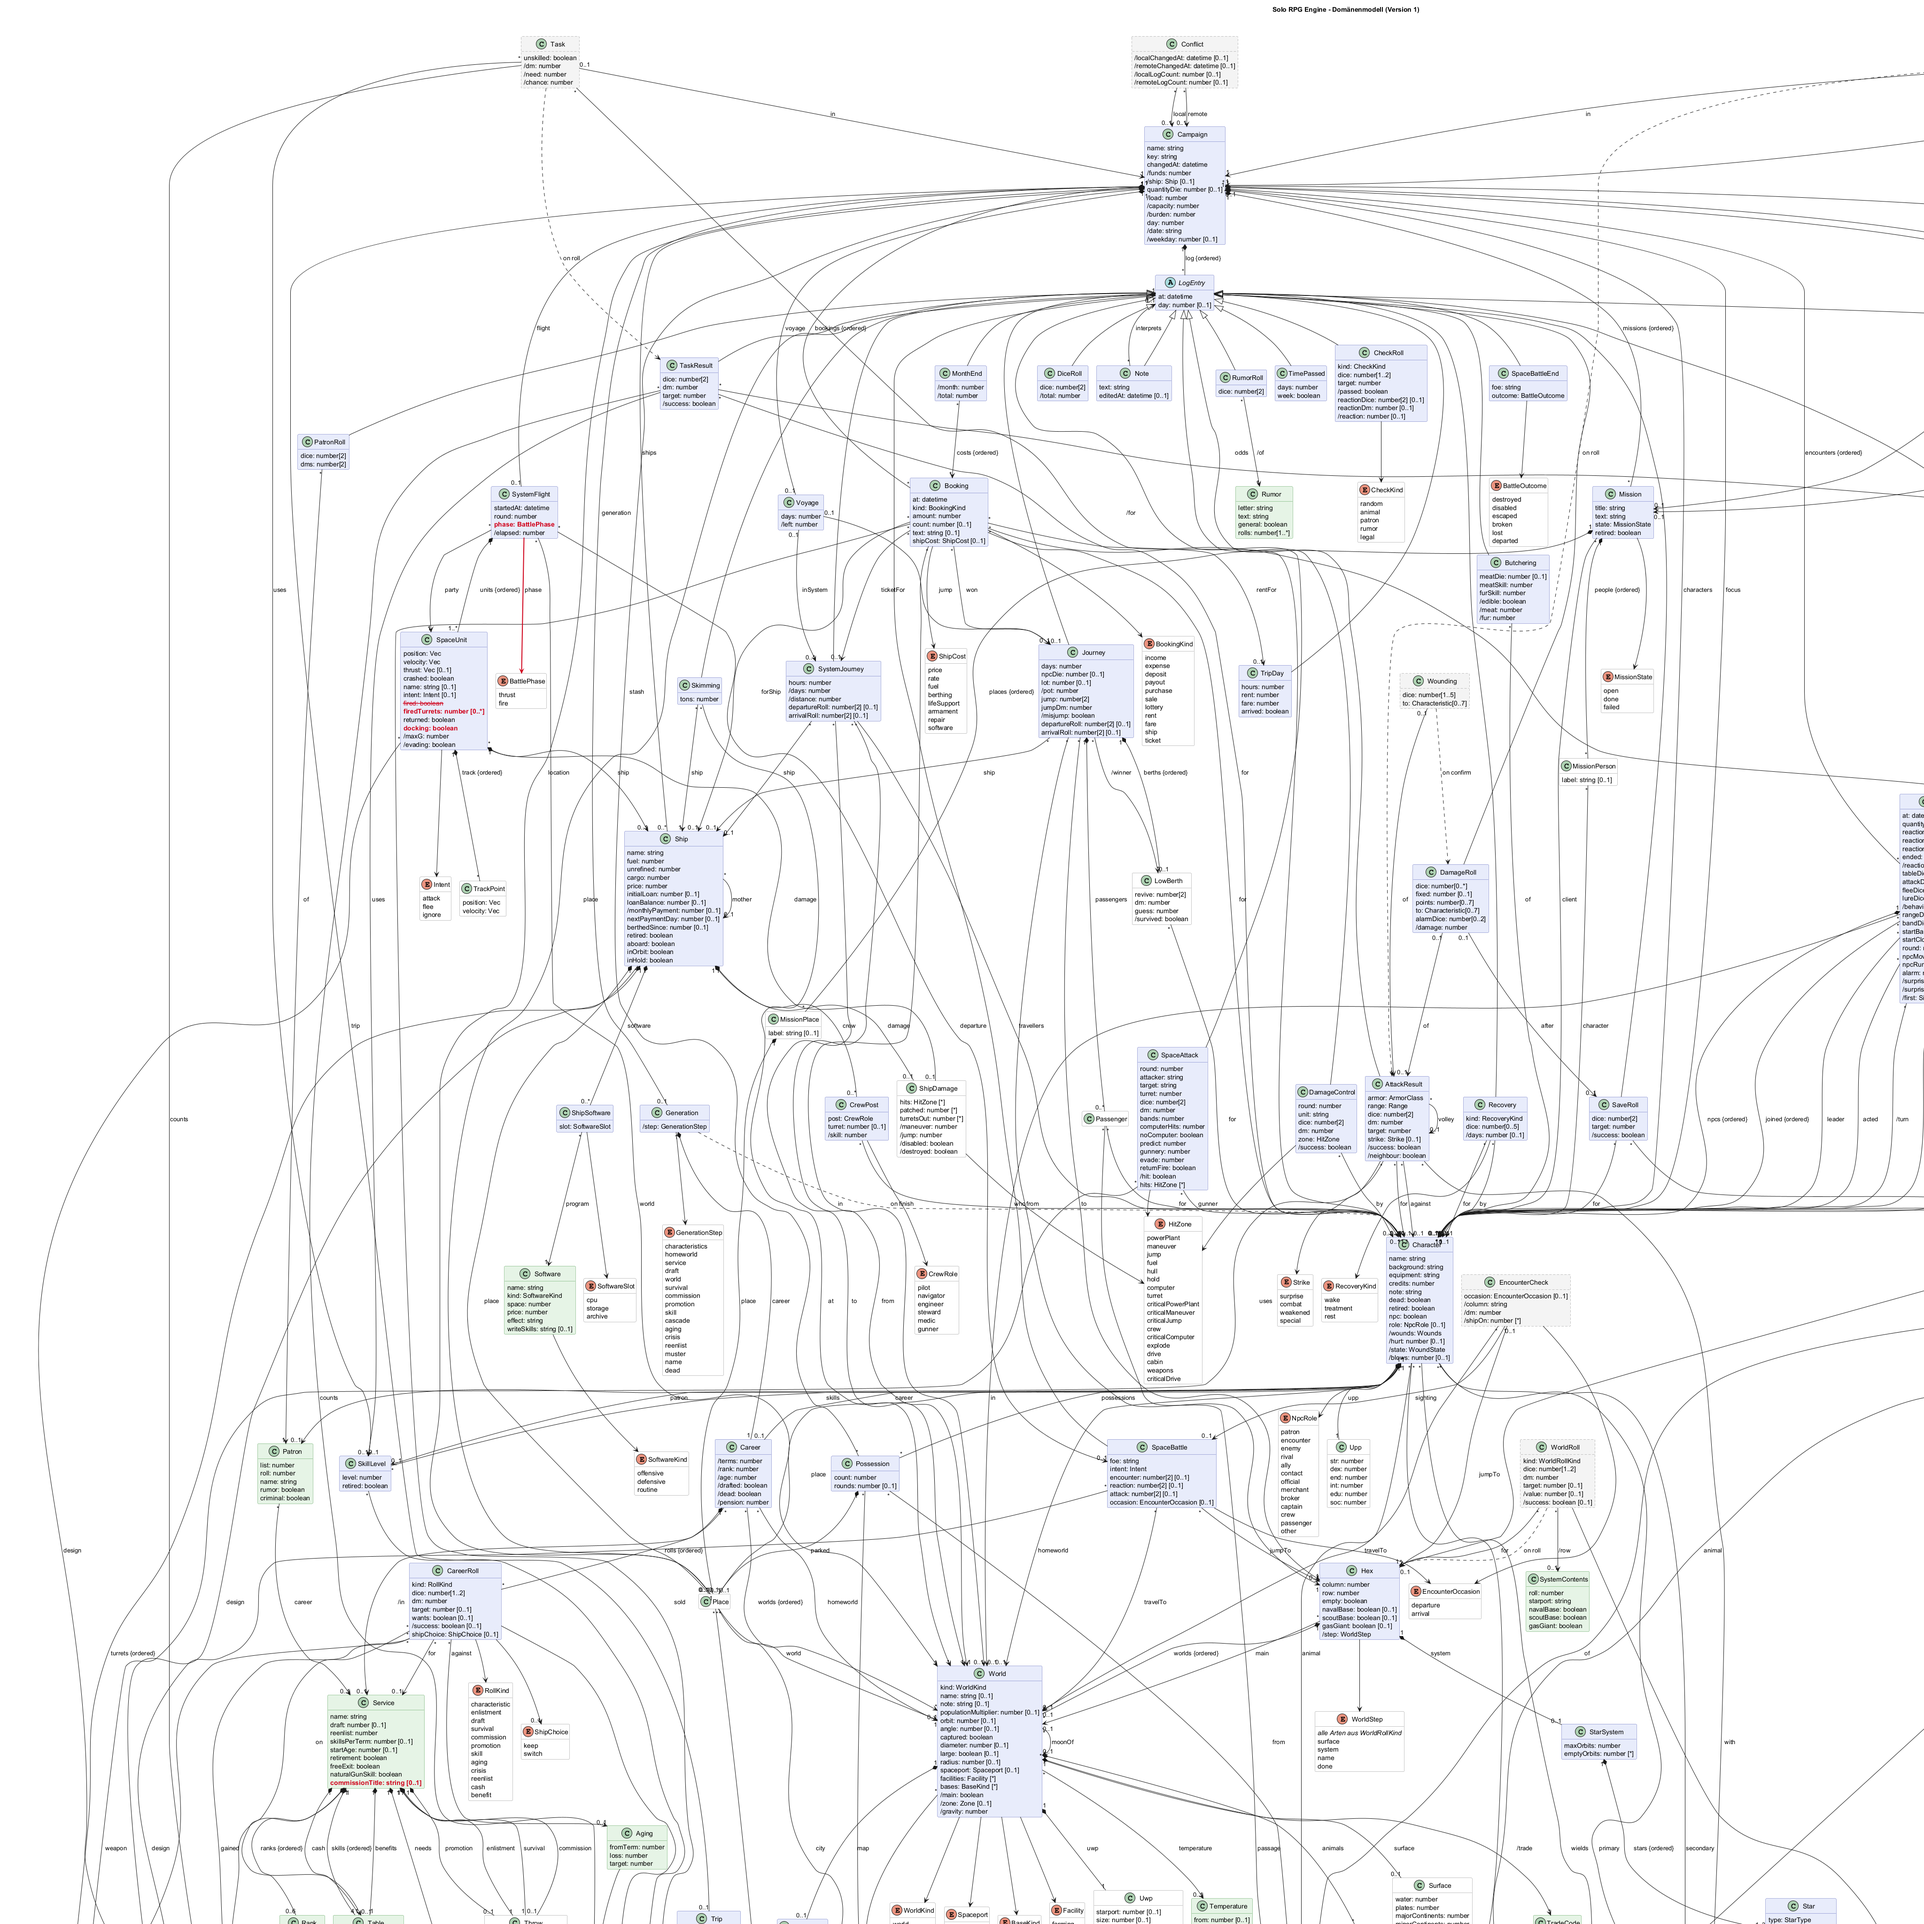
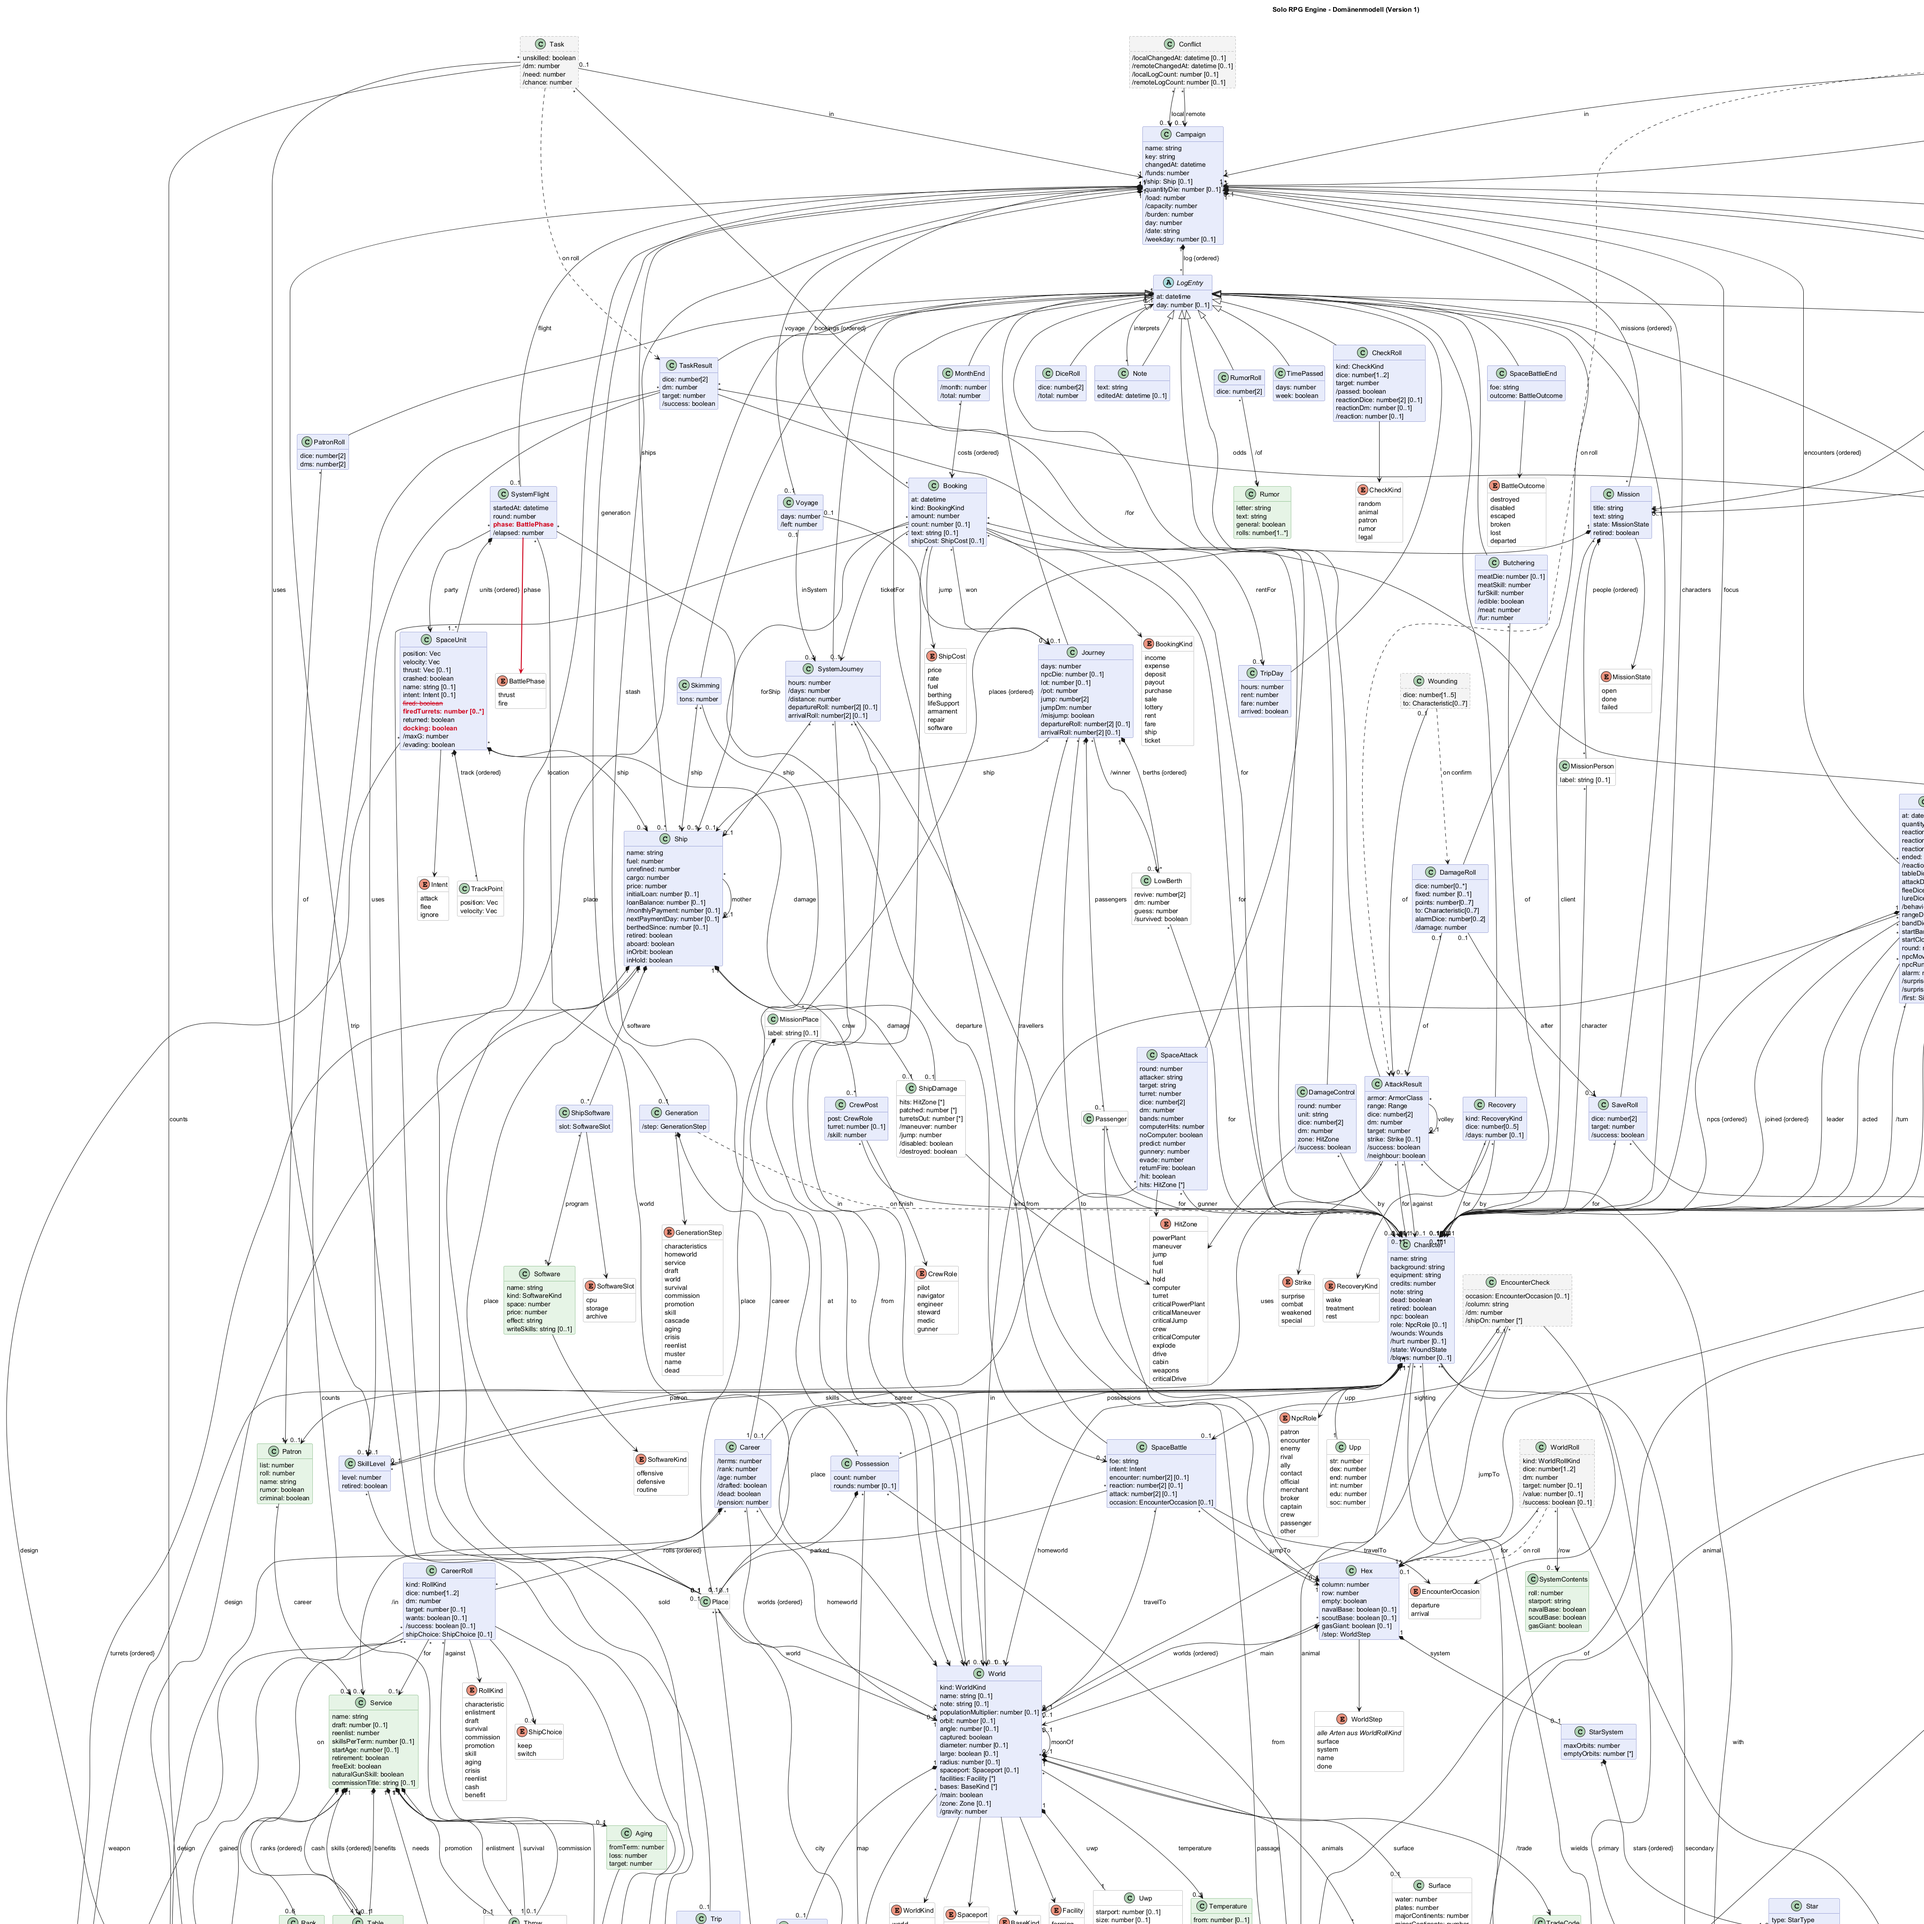
Freigabe 2026-11-24b: Name der Ranglaufbahn – Kennzeichen aus dem Modell genommen
Markierung aus `domain-model.puml` genommen, `approved: true` in `model-views.json`, Notiz auf
freigegeben gesetzt, Bild und Ausschnitte neu gerendert.

diff --git a/docs/domain-model.md b/docs/domain-model.md
@@ -627,7 +627,7 @@ Lücken unter [Wo der Code noch nicht folgt](#wo-der-code-noch-nicht-folgt).
 > `startAge` leer, die drei Schalter wahr. Der Ausschnitt dazu liegt unter
 > [`changes/2026-11-24a-laufbahnen-des-buergers.png`](changes/2026-11-24a-laufbahnen-des-buergers.png).
 >
-> **Entwurf, noch nicht abgestimmt** (Kennzeichen **2026-11-24b**): **Name der Ranglaufbahn**.
+> Am 24. November 2026 freigegeben (Kennzeichen **2026-11-24b**): **Name der Ranglaufbahn**.
 > `Service.commissionTitle` `[0..1]` gibt den Wurf, der Rang 1 gibt, in den Worten der Laufbahn: Der
 > Bürokrat steigt in den **gehobenen Dienst**, nicht in ein Offizierspatent. Ohne das Feld heißt der
 > Wurf „Offizierspatent“, was bei Navy, Marines, Army und bei den Merchants passt (deren Ränge sind
@@ -4273,4 +4273,4 @@ Diagramm mit diesen Ausnahmen:
   `data/schema.ts`, Daten in `src/data/services.json`): die sechs des Regelwerks und die zwei
   Probelaufbahnen Pirate und Bureaucrat. Die zehn anderen aus Supplement 4 sind nur Daten und
   fehlen noch in `services.json`, mit ihnen ihre Fertigkeiten und die Bogenwaffe. Der Name des
-  Rangwurfs (`commissionTitle`, 2026-11-24b) ist noch nicht freigegeben und fehlt drum im Code.
+  Rangwurfs (`commissionTitle`, 2026-11-24b) fehlt noch im Code.
